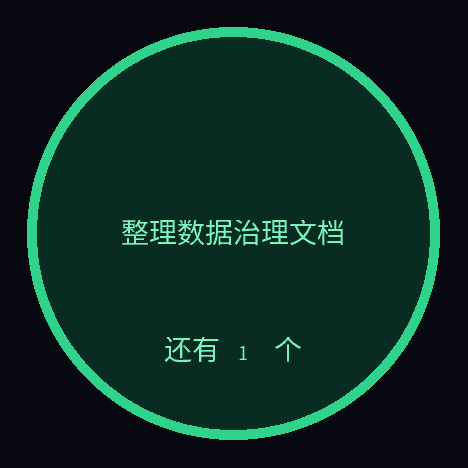
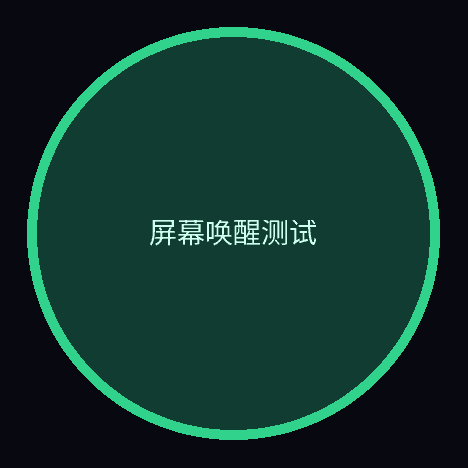
Light event screens at full brightness
The ring restored brightness to the idle level (90 of 255), which reads as dark
on the dark-green fill. Event states (done, approval, prompt, notice, result)
now light at STOPWATCH_BRIGHTNESS_EVENT (230) and stay outside the standby dim
and blank rules; only the resting character screen sleeps.

- ring fill and text lightened so the title is legible at a glance
- serial log gains a ui line (state/brightness/off/dim/done) used to verify
  wake-up from standby

diff --git a/firmware/stopwatch/src/ui.cpp b/firmware/stopwatch/src/ui.cpp
@@ -29,8 +29,8 @@ constexpr int kFishX = 83;
 constexpr int kFishY = 48;
 constexpr uint16_t kRing = rgb(255, 64, 72);
 constexpr uint16_t kDoneRing = rgb(52, 211, 138);
-constexpr uint16_t kDoneRingDim = rgb(12, 46, 36);
-constexpr uint16_t kDoneText = rgb(126, 240, 190);
+constexpr uint16_t kDoneRingDim = rgb(16, 62, 48);
+constexpr uint16_t kDoneText = rgb(206, 255, 232);
 
 constexpr int kButtonY = 332;
 constexpr int kButtonH = 56;
@@ -57,10 +57,15 @@ void UI::setState(State next) {
   lastActivity_ = stateSince_;
   screenOff_ = false;
   screenDim_ = false;
-  brightness_ = STOPWATCH_BRIGHTNESS_IDLE;
+  // an event must be readable at a glance, never the standby level
+  brightness_ = isEventState(next) ? STOPWATCH_BRIGHTNESS_EVENT : STOPWATCH_BRIGHTNESS_IDLE;
   M5.Display.setBrightness(brightness_);
   denyArmed_ = false;
   render();
+}
+
+bool UI::isEventState(State state) const {
+  return state == kAlert || state == kPrompt || state == kResult || state == kNotice || state == kDone;
 }
 
 void UI::touch() {
@@ -167,6 +172,20 @@ void UI::loop() {
 
 void UI::onDumpRequested() { dumpScreen(); }
 
+String UI::describe() {
+  String text = "state=";
+  text += static_cast<int>(state_);
+  text += " bright=";
+  text += static_cast<int>(brightness_);
+  text += " off=";
+  text += screenOff_ ? 1 : 0;
+  text += " dim=";
+  text += screenDim_ ? 1 : 0;
+  text += " done=";
+  text += static_cast<int>(donePending_);
+  return text;
+}
+
 void UI::onDone(const char* title, const char* id) {
   (void)id;
   strlcpy(doneTitle_, title != nullptr && title[0] != 0 ? title : "任务完成", sizeof(doneTitle_));
@@ -177,6 +196,8 @@ void UI::onDone(const char* title, const char* id) {
   }
   if (state_ == kDone) {
     lastActivity_ = millis();
+    brightness_ = STOPWATCH_BRIGHTNESS_EVENT;
+    M5.Display.setBrightness(brightness_);
     renderDone();  // same screen, newest title
     return;
   }

diff --git a/firmware/stopwatch/src/ui.h b/firmware/stopwatch/src/ui.h
@@ -24,6 +24,7 @@ class UI : public LinkListener {
   void onLinkDisconnected() override;
   void onDumpRequested() override;
   void onDone(const char* title, const char* id) override;
+  String describe() override;
   void onLinkPrompt(const PromptView& prompt) override;
   void onLinkClose(const char* id, const char* outcome, const char* text) override;
   void onLinkNotice(const char* kind, const char* text, const char* line) override;
@@ -57,6 +58,8 @@ class UI : public LinkListener {
   void renderDone();
   /** The screen to fall back to: approval, then a waiting completion ring, then idle. */
   State restingState() const;
+  /** Whether this state owns the screen as an event. */
+  bool isEventState(State state) const;
   /** Dump whatever is on screen (used for remote screenshots). */
   void dumpScreen();
   void handleVoiceButtons(uint32_t now);

diff --git a/firmware/stopwatch/src/link.h b/firmware/stopwatch/src/link.h
@@ -33,6 +33,8 @@ class LinkListener {
   virtual void onLinkDisconnected() {}
   virtual void onDumpRequested() {}
   virtual void onDone(const char* title, const char* id) {}
+  /** Short state/brightness description for the serial log. */
+  virtual String describe() { return String(); }
   virtual void onLinkPrompt(const PromptView &prompt) = 0;
   virtual void onLinkClose(const char *id, const char *outcome, const char *text) = 0;
   virtual void onLinkNotice(const char *kind, const char *text, const char *line) = 0;

diff --git a/firmware/stopwatch/src/link.cpp b/firmware/stopwatch/src/link.cpp
@@ -90,6 +90,7 @@ void Link::loop() {
     static uint32_t lastBeat = 0;
     if (millis() - lastBeat > 4000) {
       lastBeat = millis();
+      if (listener_ != nullptr) Serial.printf("[dsh] ui %s\n", listener_->describe().c_str());
       Serial.printf("[dsh] alive wifi=%d ip=%s srv=%d tcp=%d host=%s\n", wifiUp_ ? 1 : 0,
                     wifiUp_ ? WiFi.localIP().toString().c_str() : "-", serverStarted_ ? 1 : 0, connected_ ? 1 : 0,
                     host_[0] != 0 ? host_ : "-");

diff --git a/firmware/stopwatch/src/config.h b/firmware/stopwatch/src/config.h
@@ -43,6 +43,11 @@
 #ifndef STOPWATCH_SCREEN_OFF_MS
 #define STOPWATCH_SCREEN_OFF_MS 60000
 #endif
+/** Brightness while an event (completion, approval, notice) owns the screen. */
+#ifndef STOPWATCH_BRIGHTNESS_EVENT
+#define STOPWATCH_BRIGHTNESS_EVENT 230
+#endif
+
 #ifndef STOPWATCH_BRIGHTNESS_DIM
 #define STOPWATCH_BRIGHTNESS_DIM 12
 #endif

diff --git a/docs/protocol.md b/docs/protocol.md
@@ -163,6 +163,8 @@
 手表侧行为：
 
 - 绿环 + 居中标题，**一直显示到点屏幕为止**，不会自动消失。
+- 事件屏（完成/确认/提示）用 `STOPWATCH_BRIGHTNESS_EVENT`（默认 230）点亮，
+  待机变暗和熄屏只作用于角色待机界面，不会压暗事件本身。
 - 显示期间又来一个 `done`，标题换成最新的，并多出一行「还有 N 个」。
 - 只在**顶层会话**的 `turn/end`（原因 `completed`）时发送，子代理结束不会打扰。
 - 正在确认请求、录音、识别中时不抢占屏幕；这些状态结束后绿环会重新出现，
